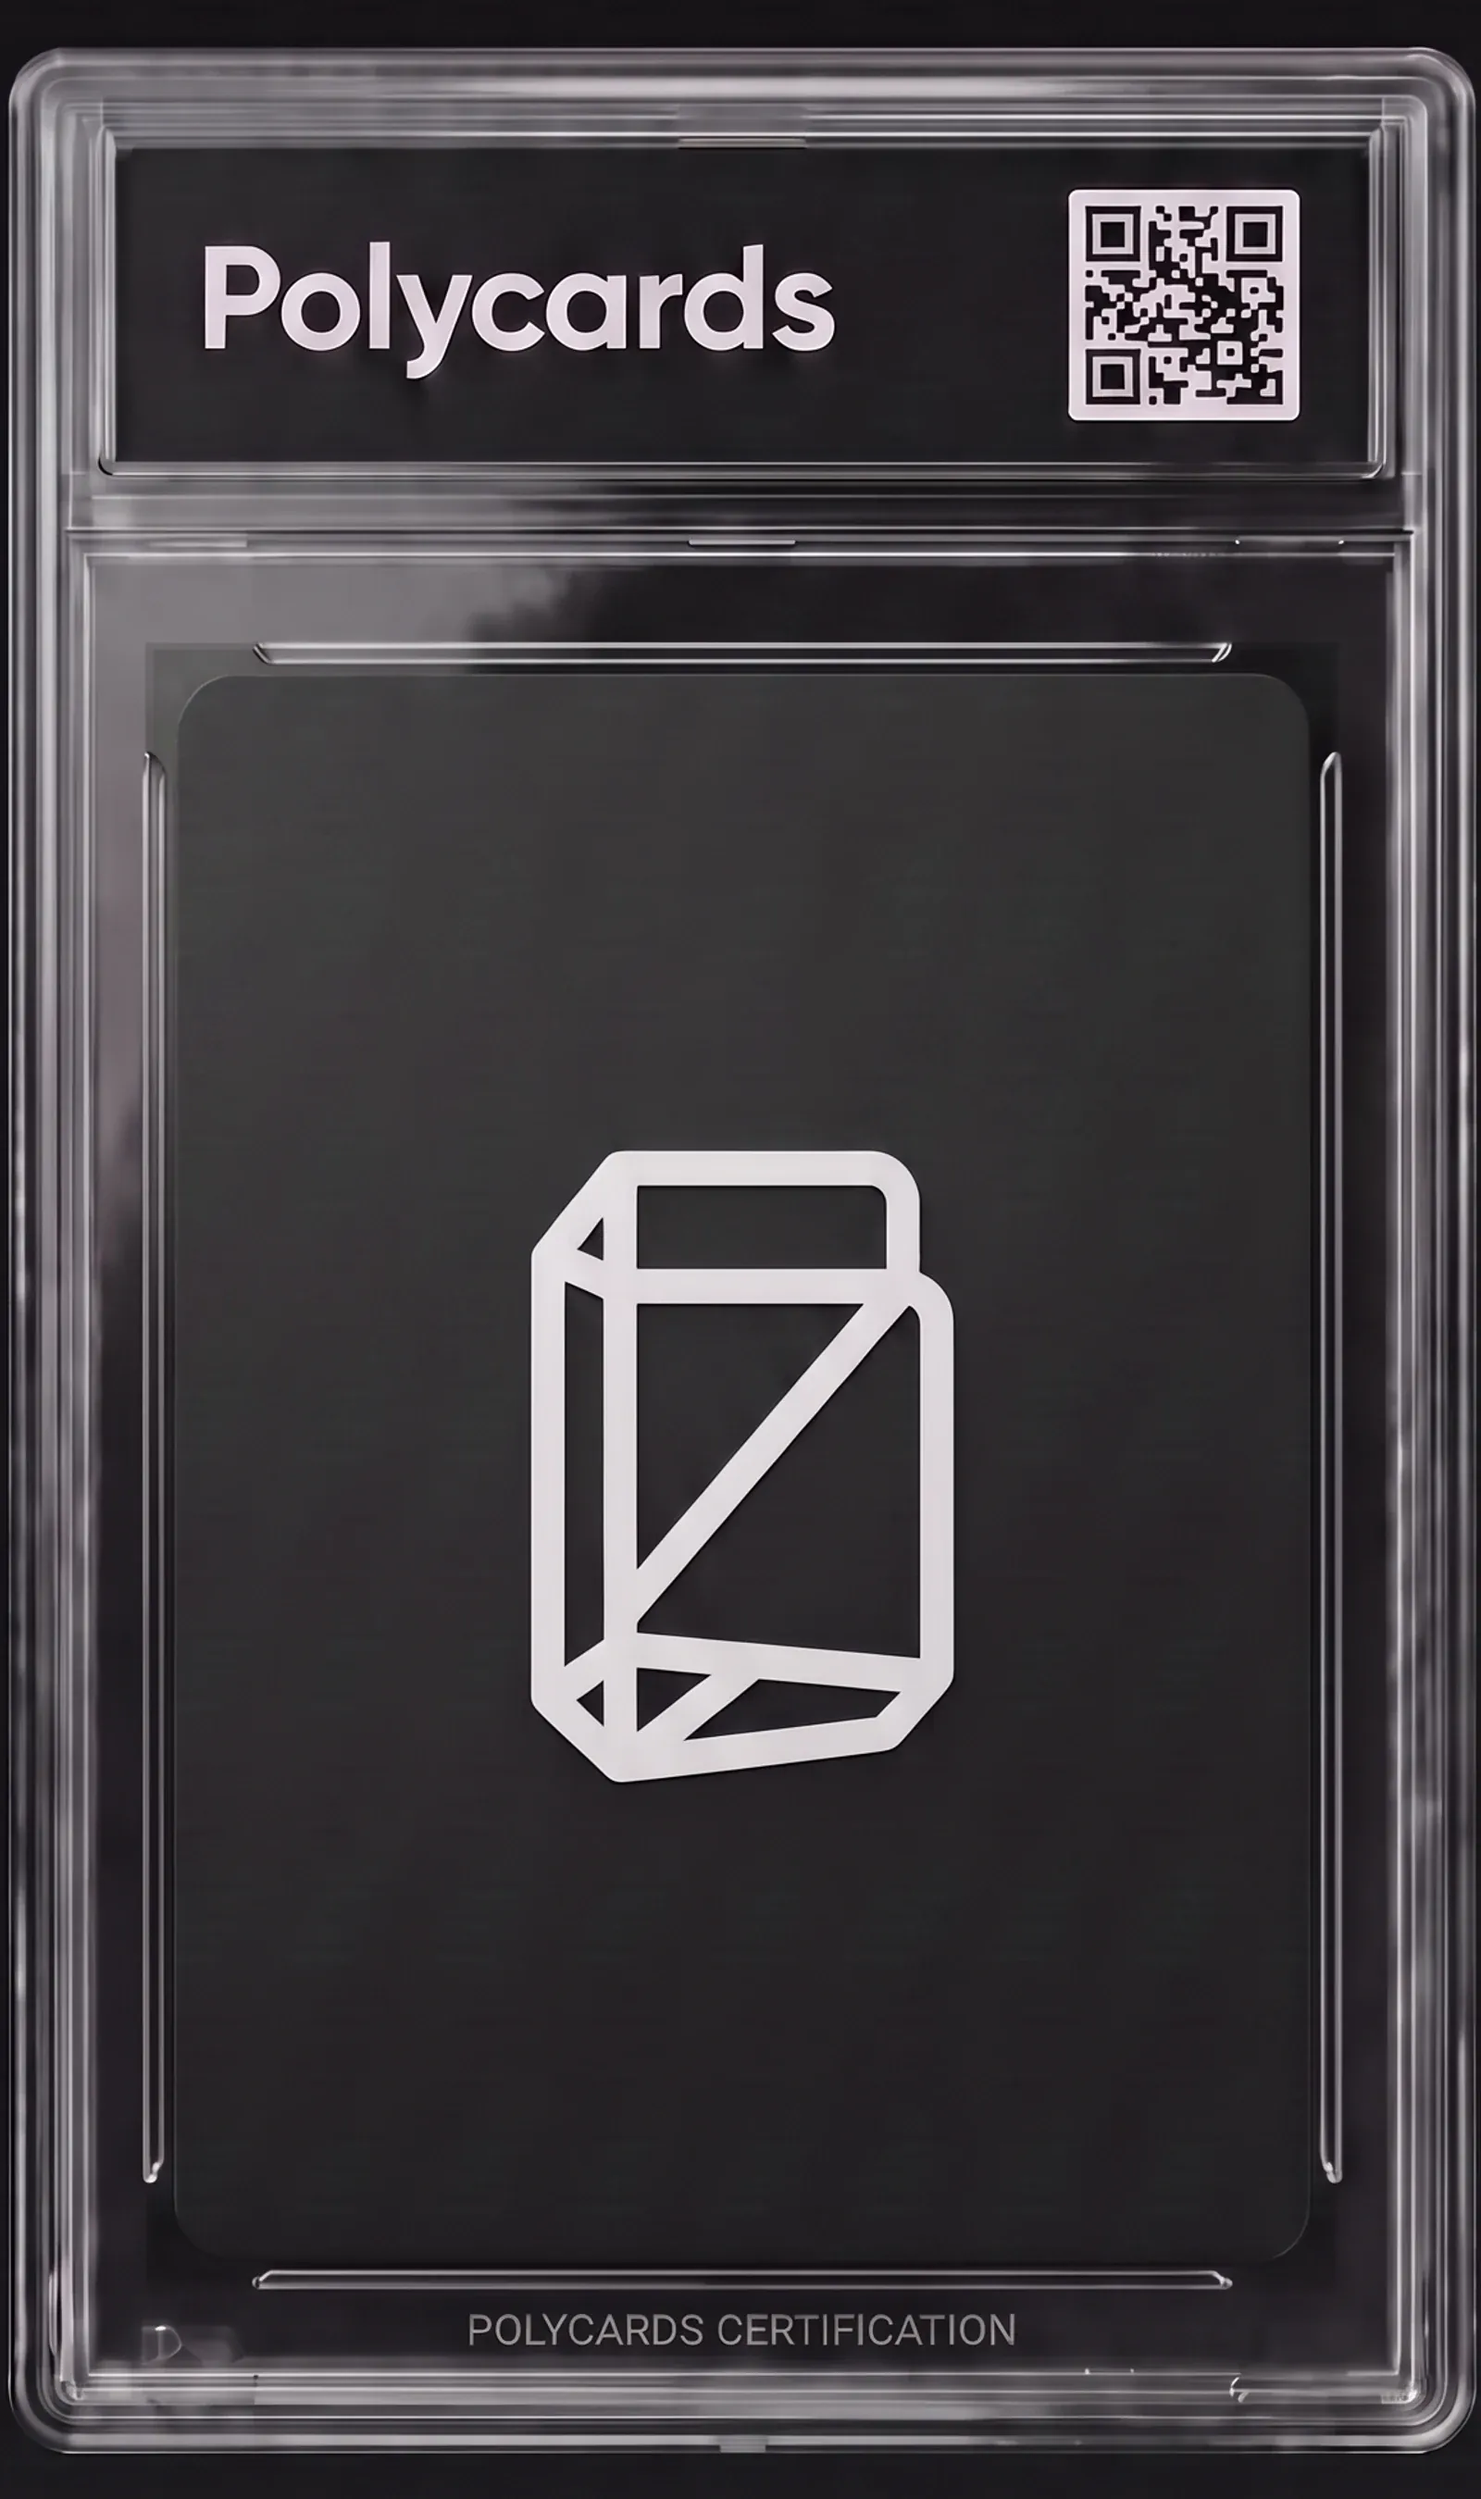
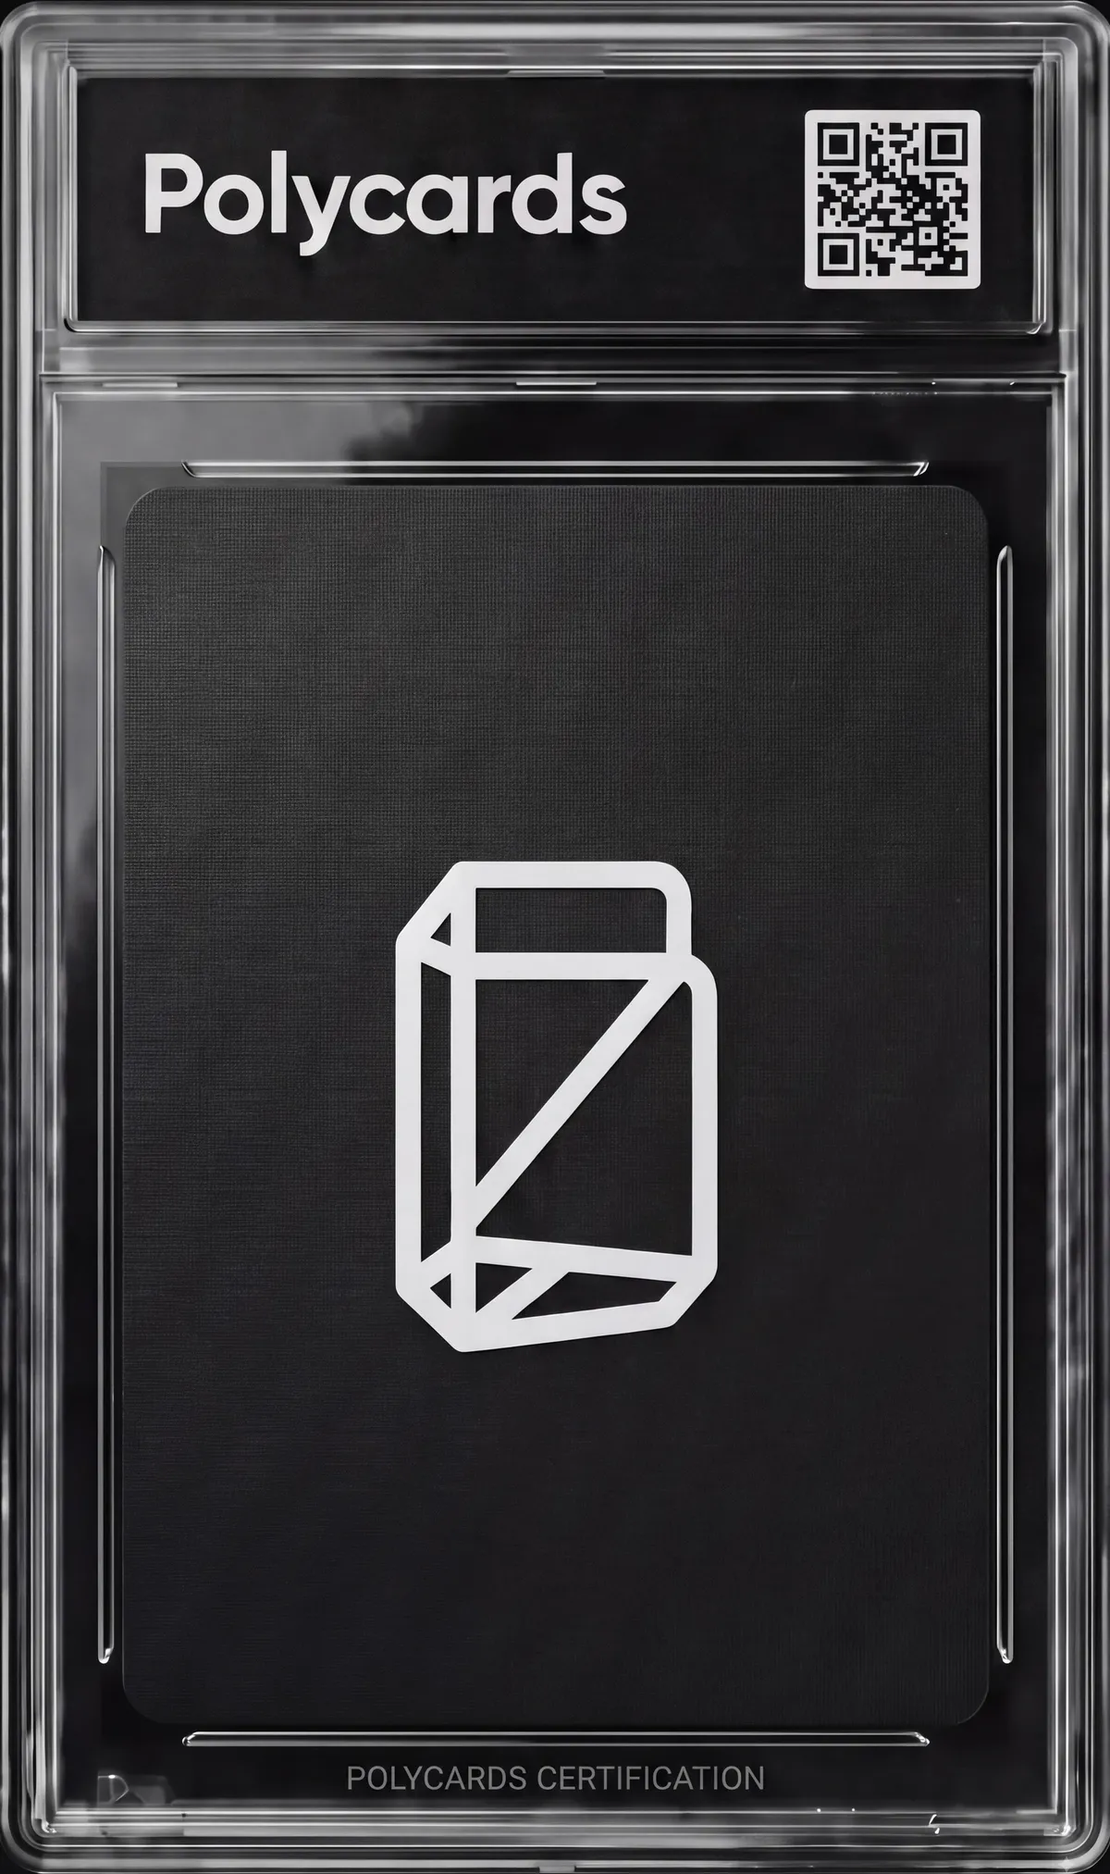
feat(reveal): turn the face-down slab in your hand, and re-render its back sharp
The card back is the longest-held beat in the reveal — it waits for the
player indefinitely — and until now it just sat there. Two changes make
that hold worth having.

Pointer tilt + specular glare. `useCardTilt` returns a callback ref (React
19 ref cleanup) rather than handler props: the React Compiler lint rejects
reading a returned ref object's fields during render, and native listeners
keep the pointer stream off React entirely, which matters because the
reveal already commits heavily (see SlotReelStack's `frozen`). It drives
CSS custom properties from a rAF lerp, so nothing re-renders per
pointermove. The tilt rides in motion's `transformTemplate`, outside the
generated transform, so the flip, the idle float and the entrance morph all
keep animating untouched; `perspective` moved to the parent because an
element's own perspective only projects its children, never its own
rotation. Bound to pointerdown as well as pointermove so a finger — which
never hovers — gets its angle the moment it lands, with `touch-action: none`
on the card while face-down so the browser doesn't claim the drag for page
scroll. No `setPointerCapture`: capture on this subtree swallows the tap
that flips the card. Reduced motion keeps the card flat, unlit, and leaves
the scroll gesture alone.

Back art re-rendered. The old raster was soft at 1:1 — re-encoding the PNG
master at q88 produced an identical crop, so compression was never the
[…]

Changed region(s): [[0.0, 0.0, 1.0, 1.0], [0.3392, 0.4667, 0.6475, 0.7467]]

diff --git a/src/lib/use-card-tilt.ts b/src/lib/use-card-tilt.ts
@@ -1,0 +1,120 @@
+'use client';
+
+import { useCallback } from 'react';
+
+/** Peak rotation at the card's edges. Small on purpose: the slab should read as
+ *  a solid object turned in the hand, not as a page flipping over. */
+const MAX_TILT_DEG = 9;
+/** Per-frame approach to the pointer's target angle. Follows the cursor closely
+ *  while still easing back to flat when the pointer leaves. */
+const EASE = 0.18;
+
+type Tilt = {
+  /** degrees */ rx: number;
+  /** degrees */ ry: number;
+  /** % across the card */ gx: number;
+  /** % down the card */ gy: number;
+  /** 0..1 */ go: number;
+};
+const REST: Tilt = { rx: 0, ry: 0, gx: 50, gy: 50, go: 0 };
+
+/**
+ * Pointer-follow tilt + specular glare for the card in the reveal.
+ *
+ * Returns a CALLBACK REF: pass it as the element's `ref` and it wires its own
+ * native pointer listeners, returning React 19's ref cleanup on detach. Two
+ * reasons it works this way rather than handing back handler props — the React
+ * Compiler lint rejects reading a ref object's fields during render, and native
+ * listeners keep the pointer stream off React entirely. That matters here: the
+ * reveal commits heavily (see SlotReelStack's `frozen`), and a re-render per
+ * pointermove would land on the flip's frames. The element is driven through
+ * CSS custom properties instead, so nothing re-renders at all.
+ *
+ * Nothing calls `setPointerCapture` — capture on this subtree swallows the tap
+ * that flips the card.
+ *
+ * `enabled` is the caller's reduced-motion answer. Interaction-driven motion is
+ * still motion (WCAG 2.3.3), so when the visitor asks for less of it the card
+ * stays flat and the glare stays off.
+ */
+export function useCardTilt(enabled: boolean) {
+  return useCallback(
+    (el: HTMLElement | null) => {
+      if (!el || !enabled) return;
+
+      let target: Tilt = REST;
+      let current: Tilt = REST;
+      let raf: number | null = null;
+
+      const tick = () => {
+        let moving = false;
+        const step = (from: number, to: number) => {
+          const d = to - from;
+          if (Math.abs(d) < 0.01) return to;
+          moving = true;
+          return from + d * EASE;
+        };
+        current = {
+          rx: step(current.rx, target.rx),
+          ry: step(current.ry, target.ry),
+          gx: step(current.gx, target.gx),
+          gy: step(current.gy, target.gy),
+          go: step(current.go, target.go),
+        };
+        el.style.setProperty('--tilt-x', `${current.rx.toFixed(2)}deg`);
+        el.style.setProperty('--tilt-y', `${current.ry.toFixed(2)}deg`);
+        el.style.setProperty('--glare-x', `${current.gx.toFixed(1)}%`);
+        el.style.setProperty('--glare-y', `${current.gy.toFixed(1)}%`);
+        el.style.setProperty('--glare-o', current.go.toFixed(3));
+        raf = moving ? requestAnimationFrame(tick) : null;
+      };
+      const start = () => {
+        if (raf === null) raf = requestAnimationFrame(tick);
+      };
+
+      /** Bound to pointerdown as well as pointermove: a finger never hovers, so
+       *  touch gets its first angle the moment it lands and then drags the card
+       *  round. On a mouse this just means the card is already leaning when a
+       *  press starts. */
+      const onMove = (e: PointerEvent) => {
+        const r = el.getBoundingClientRect();
+        if (r.width === 0 || r.height === 0) return;
+        const px = (e.clientX - r.left) / r.width; // 0 (left) .. 1 (right)
+        const py = (e.clientY - r.top) / r.height; // 0 (top) .. 1 (bottom)
+        target = {
+          rx: (0.5 - py) * 2 * MAX_TILT_DEG,
+          ry: (px - 0.5) * 2 * MAX_TILT_DEG,
+          gx: px * 100,
+          gy: py * 100,
+          go: 1,
+        };
+        start();
+      };
+      /** Ease back to flat. Bound to pointerup/cancel too, because a touch
+       *  pointer never sends pointerleave — the highlight would otherwise stay
+       *  frozen mid-card. */
+      const rest = () => {
+        target = { ...target, rx: 0, ry: 0, go: 0 };
+        start();
+      };
+
+      el.addEventListener('pointerdown', onMove);
+      el.addEventListener('pointermove', onMove);
+      el.addEventListener('pointerleave', rest);
+      el.addEventListener('pointerup', rest);
+      el.addEventListener('pointercancel', rest);
+      return () => {
+        if (raf !== null) cancelAnimationFrame(raf);
+        el.removeEventListener('pointerdown', onMove);
+        el.removeEventListener('pointermove', onMove);
+        el.removeEventListener('pointerleave', rest);
+        el.removeEventListener('pointerup', rest);
+        el.removeEventListener('pointercancel', rest);
+        el.style.removeProperty('--tilt-x');
+        el.style.removeProperty('--tilt-y');
+        el.style.removeProperty('--glare-o');
+      };
+    },
+    [enabled],
+  );
+}

diff --git a/src/app/slots/[slug]/SlabCard.tsx b/src/app/slots/[slug]/SlabCard.tsx
@@ -15,6 +15,7 @@ import { rm } from '@/lib/format';
 import { isTopRarity } from '@/lib/rarity';
 import { SlabImage, SLAB_ASPECT, FRAME_BAND } from '@/components/SlabImage';
 import { cn } from '@/lib/utils';
+import { useCardTilt } from '@/lib/use-card-tilt';
 
 /** The card back raster. Exported so the machine can warm it during the spin —
  *  it is the FIRST thing the reveal shows, and mounting this component was also
@@ -63,6 +64,10 @@ export function SlabCard({
   // the worse of the two mismatches.
   const raw = !card.slab_image;
 
+  // The slab turns under the pointer and catches a highlight as it turns, so
+  // the hold before the flip is something to handle rather than sit through.
+  const tilt = useCardTilt(!reduced);
+
   // Shape-synced morph (spec #16): delta from the landed tile's rect to this
   // card's natural box. Computed in a layout effect (before paint) so the
   // first painted frame already sits at the tile's position; until then the
@@ -108,10 +113,21 @@ export function SlabCard({
         delay: enterDelayMs / 1000,
         ease: [0.16, 1, 0.3, 1],
       }}
-      style={{ visibility: wantsMorph && !delta ? 'hidden' : undefined }}
+      style={{
+        visibility: wantsMorph && !delta ? 'hidden' : undefined,
+        // Projects the button's tilt below. The button's own perspective
+        // only reaches its faces, never its own rotation.
+        perspective: '1200px',
+      }}
       className="flex w-full flex-col items-center gap-3"
     >
       <motion.button
+        ref={tilt}
+        // Tilt rides OUTSIDE motion's generated transform, so the flip, the
+        // idle float and the morph all keep animating untouched.
+        transformTemplate={(_, generated) =>
+          `rotateX(var(--tilt-x, 0deg)) rotateY(var(--tilt-y, 0deg)) ${generated}`
+        }
         type="button"
         onClick={flipped ? undefined : onFlip} // flip is one-way; guard mid-flight re-taps
         disabled={!onFlip || flipped}
@@ -130,6 +146,11 @@ export function SlabCard({
             // 0.6s; the flip reveal (the stare moment) stays exact.
             aspectRatio: String(SLAB_ASPECT),
             perspective: '1200px',
+            // Face-down, a finger dragging ACROSS the card turns it instead of
+            // scrolling the page — the card is the thing you are handling.
+            // Scoped to the card itself (the rest of the stage still scrolls)
+            // and dropped on flip, when there is nothing left to turn.
+            touchAction: reduced || flipped ? undefined : 'none',
           } as CSSProperties
         }
         animate={
@@ -218,6 +239,23 @@ export function SlabCard({
               />
             </span>
           )}
+          {/* Specular highlight — a real acrylic slab catches the light where
+              you are looking at it, so the hotspot tracks the pointer and dies
+              when the pointer leaves (useCardTilt owns the CSS vars). inset-0
+              covers case AND card: the whole object is glossy, not just the
+              art inside it. */}
+          <span
+            aria-hidden
+            className="pointer-events-none absolute inset-0 rounded-xl"
+            style={
+              {
+                opacity: 'var(--glare-o, 0)',
+                background:
+                  'radial-gradient(120% 90% at var(--glare-x, 50%) var(--glare-y, 50%), rgba(255,255,255,0.34), rgba(255,255,255,0.09) 38%, rgba(255,255,255,0) 62%)',
+                mixBlendMode: 'screen',
+              } as CSSProperties
+            }
+          />
           {/* the tile's pixel Pokémon rides the morph, fading out mid-growth */}
           {spriteSrc && entering && !reduced && (
             <motion.img
